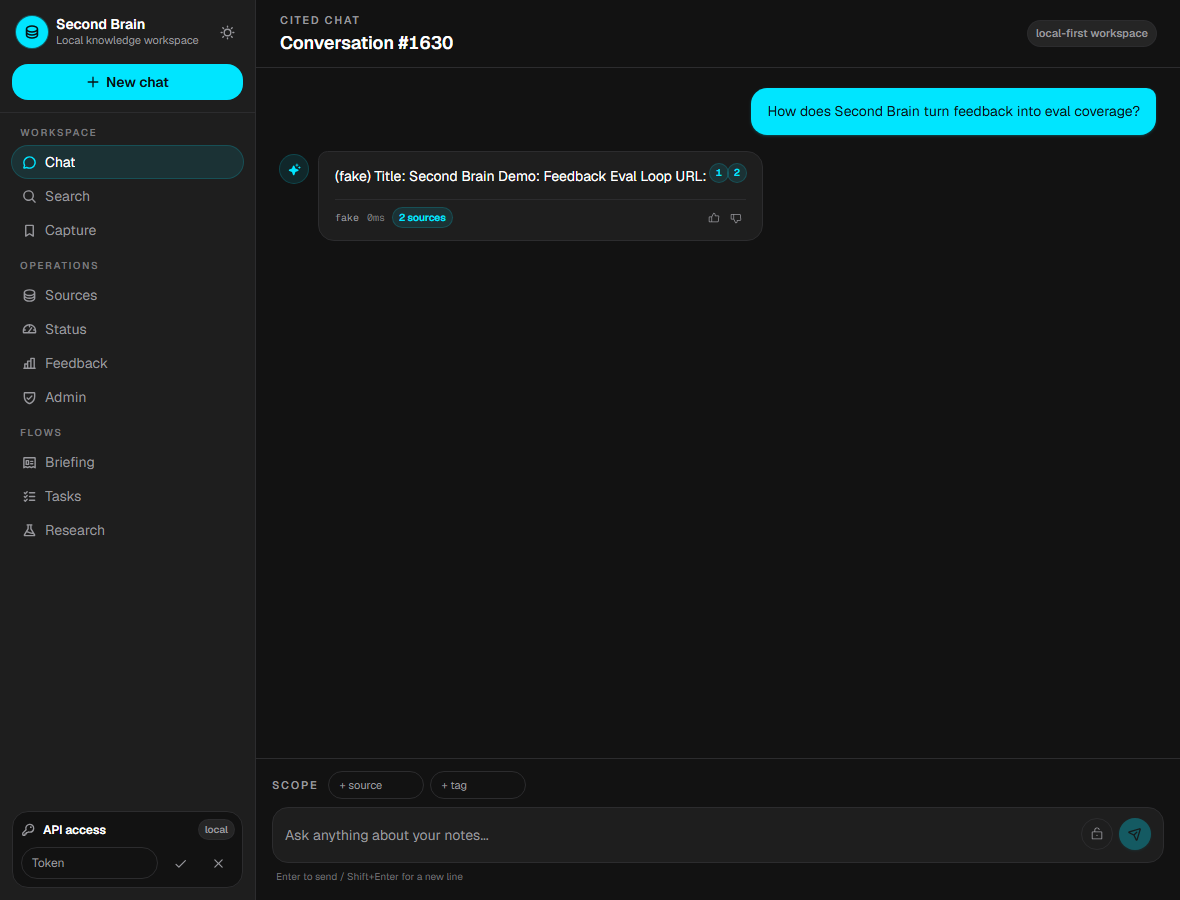
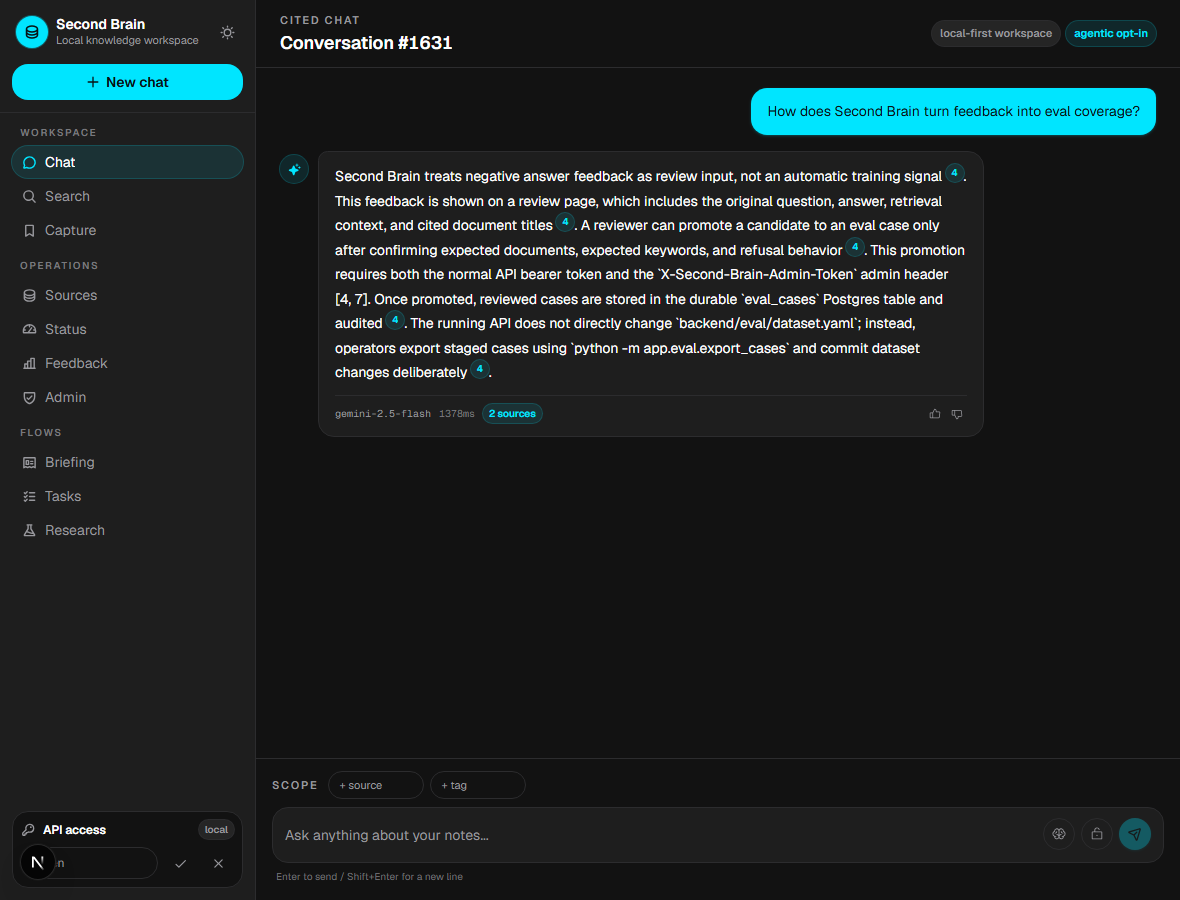
fix: refresh README screenshot with real chat

diff --git a/backend/tests/integration/test_search.py b/backend/tests/integration/test_search.py
@@ -1,4 +1,5 @@
 """Integration tests for GET /search, GET /conversations, POST /feedback."""
+from datetime import datetime, timezone
 import os
 import pytest
 from sqlalchemy import select
@@ -6,7 +7,7 @@ from sqlalchemy import select
 from app import deps
 from app.api import conversations
 from app.config import Settings
-from app.db.models import AuditLog, EvalCaseRecord
+from app.db.models import AuditLog, Conversation, EvalCaseRecord, Message
 from app.main import app
 
 pytestmark = pytest.mark.skipif(
@@ -63,6 +64,38 @@ def test_conversations_detail(client):
     assert body["id"] == conv_id
     assert len(body["messages"]) >= 1
     assert body["messages"][0]["role"] == "user"
+
+
+def test_conversations_detail_orders_tied_timestamps_by_message_id(client, db_session):
+    ts = datetime(2026, 6, 7, 17, 57, tzinfo=timezone.utc)
+    conv = Conversation(title="timestamp tie", created_at=ts, updated_at=ts)
+    db_session.add(conv)
+    db_session.flush()
+
+    user = Message(
+        conversation_id=conv.id,
+        role="user",
+        content="question",
+        created_at=ts,
+    )
+    assistant = Message(
+        conversation_id=conv.id,
+        role="assistant",
+        content="answer",
+        model="fake",
+        latency_ms=1,
+        created_at=ts,
+    )
+    db_session.add_all([user, assistant])
+    db_session.flush()
+    assert user.id < assistant.id
+
+    # Relationship load order is not a chronology contract when timestamps tie.
+    conv.messages = [assistant, user]
+
+    r = client.get(f"/conversations/{conv.id}")
+    assert r.status_code == 200, r.text
+    assert [m["role"] for m in r.json()["messages"]] == ["user", "assistant"]
 
 
 def test_conversations_not_found(client):

diff --git a/backend/app/api/conversations.py b/backend/app/api/conversations.py
@@ -254,7 +254,7 @@ def get_conversation(
     if conv is None:
         raise HTTPException(status_code=status.HTTP_404_NOT_FOUND, detail="Conversation not found")
 
-    ordered = sorted(conv.messages, key=lambda m: m.created_at)
+    ordered = sorted(conv.messages, key=lambda m: (m.created_at, m.id))
 
     all_chunk_ids = [r.chunk_id for m in ordered for r in m.retrievals]
     display = load_display_chunks(db, all_chunk_ids) if all_chunk_ids else {}

diff --git a/docs/PROGRESS.md b/docs/PROGRESS.md
@@ -34,6 +34,13 @@ Add a dated entry per working session. Most recent on top.
 - **Verified:** local Postgres started, migrations were current, `python -m app.demo.seed` created
   a demo conversation, backend `/health` returned OK, frontend `/chat` returned `200`, the new PNG
   is `1180x900`, and the screenshot was visually checked.
+- **Follow-up fix:** replaced the fake-provider README screenshot with a real configured Gemini
+  (`gemini-2.5-flash`) UI run. While recapturing, fixed conversation replay ordering when user and
+  assistant messages share the same `created_at` timestamp by sorting tied history rows by message
+  id. Added regression coverage for the timestamp-tie case and recaptured the screenshot from the
+  corrected `/chat?cid=...` replay path. Focused conversation tests passed, and the full
+  `tests/integration/test_search.py` file passed on a fresh migrated temporary Postgres database
+  (`19 passed, 4 warnings`).
 
 ### 2026-06-07 - PR #27 review follow-up and publish gate
 - **What:** opened PR #27 for the WattVision DesignMD/CORS/theme work, moved it out of draft after